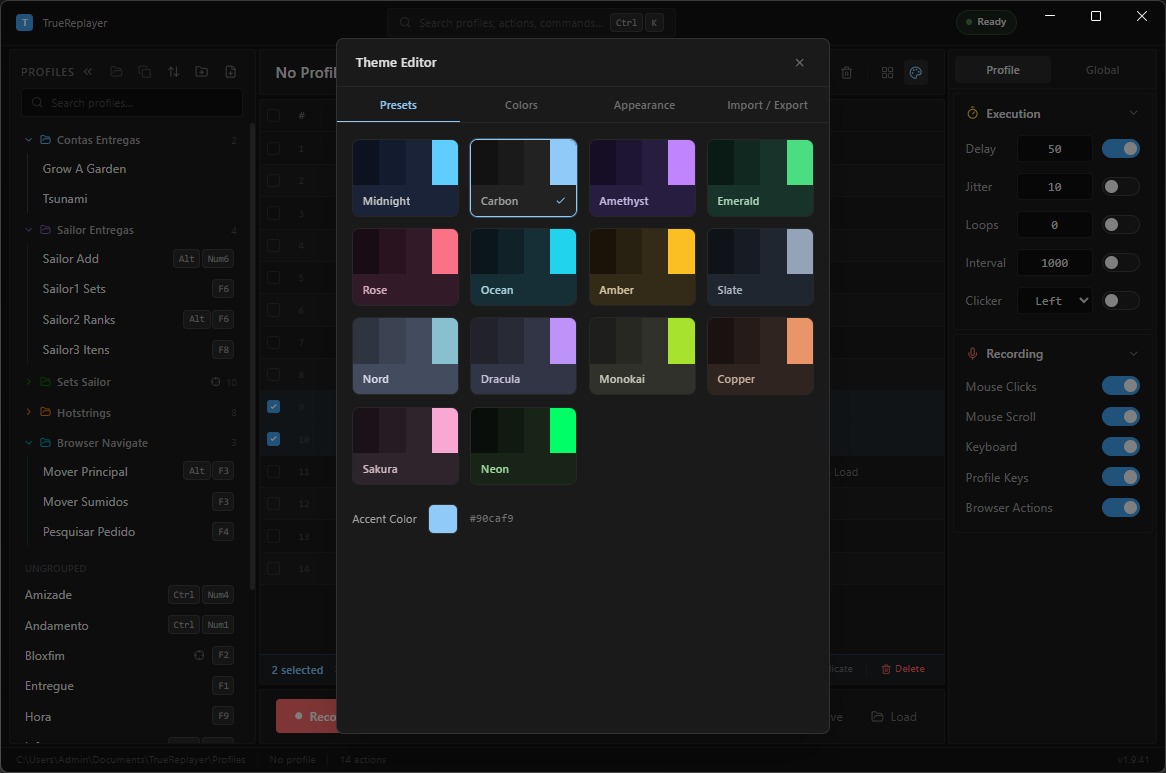
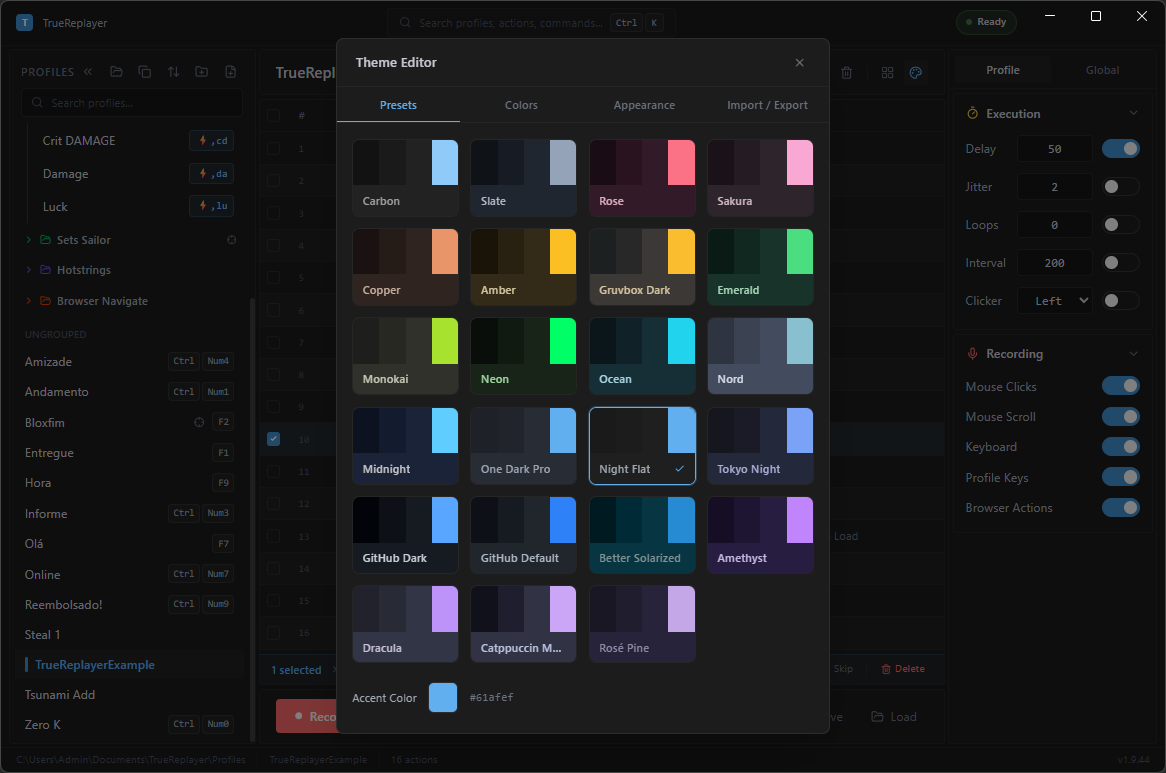
README: refresh for v1.9.45 — chaining, triggers, clipboard, 23 themes
- New screenshots (Main Window, Edit Text, Target Configuration,
  Themes) replace the old ones; Run Profile, Triggers and Clipboard
  Transform added.
- New sections: Trigger Modes, Profile Chaining, Clipboard Transform.
- Send Text section renamed to Edit Text and now mentions chained
  clipboard modifiers.
- Theme list updated to 23 presets, organized by accent hue, with
  Night Flat as the default and the new presets called out.
- Quality of Life updated: changelog-preview update flow, WebView2
  crash recovery, diagnostic logs, DevTools tray shortcut.

Both English and Portuguese (pt-BR) READMEs updated in lockstep.

diff --git a/README.pt-BR.md b/README.pt-BR.md
@@ -23,7 +23,7 @@
 </p>
 
 <p align="center">
-  <img src="Image%20App/MainWindow.png" alt="Janela principal do TrueReplayer" width="900" />
+  <img src="Image%20App/Main%20Window.png" alt="Janela principal do TrueReplayer" width="900" />
 </p>
 
 ---
@@ -48,10 +48,12 @@
 
 - 🎯 **Replay preciso** com suporte a Raw Input — funciona em jogos como Roblox
 - 🪟 **Ciente da janela** — trava tamanho, posição e foco numa janela alvo antes do replay
+- 🔗 **Profile chaining** — chama outros profiles inline com cycle detection e repeat count
+- ⚡ **Trigger Modes** — OnPress, OnRelease, WhilePressed, Toggle para o comportamento da hotkey
 - 🌐 **Automação de navegador** — clica, digita e navega usando seletores CSS (extensão Chrome)
 - ⌨ **Hotkeys e hotstrings** para disparar qualquer profile de qualquer lugar
 - 📁 **Profiles e pastas** com target de janela herdado
-- 🎨 **UI Fluent escura** com 14 temas pré-definidos e cores totalmente customizáveis
+- 🎨 **UI Fluent escura** com 23 temas pré-definidos e cores totalmente customizáveis
 
 ---
 
@@ -83,14 +85,14 @@
 Amarra um profile a uma janela específica para um replay confiável e independente de estado.
 
 <p align="center">
-  <img src="Image%20App/TargetConfig.png" alt="Dialog de Target Configuration" width="780" />
+  <img src="Image%20App/Target%20Configuration.png" alt="Dialog de Target Configuration" width="780" />
 </p>
 
 - **Click-to-detect** — clique em qualquer janela para capturar processo e título
 - **Modos de match** — `Contains` ou regex no título da janela
 - **Relative Coordinates** — grava cliques relativos à janela, replay funciona mesmo se ela mudar de posição
 - **Lock Size** — salva largura/altura na gravação e restaura antes do replay
-- **Lock Position** — salva X/Y e restaura junto com o tamanho *(novo na 1.9.41)*
+- **Lock Position** — salva X/Y e restaura junto com o tamanho
 - **Bring to Focus** — traz a janela alvo para frente antes do replay, preservando estado maximizado/fullscreen
 - **Update Window Size & Position** — recaptura a geometria sem precisar regravar
 - **Convert Coordinates** — converte em lote entre coordenadas absolutas e relativas à janela
@@ -102,22 +104,79 @@ Amarra um profile a uma janela específica para um replay confiável e independe
 - **Configuração herdada** — pastas podem definir target, relative coords e bring-to-focus — todos os profiles dentro herdam automaticamente
 - **Hotkeys** — atalho de teclado para disparar um profile instantaneamente
 - **Hotstrings** — digite uma sequência (ex: `/oi`) para executar um profile (modo instantâneo ou com terminador)
+- **Trigger Modes** — escolhe como a hotkey se comporta (veja abaixo)
 - **Import / Export** — compartilhe profiles como arquivos `.trprofile`, preservando organização em pastas e imagens
 - **Busca** — filtra profiles pelo nome em tempo real
 - **Proteção contra perda** — avisa antes de trocar ou fechar com alterações não salvas
 
-## Send Text
+## Trigger Modes
 
-Insere blocos de texto como se digitasse, com conteúdo dinâmico.
+Cada profile escolhe como a hotkey dispara o macro.
 
 <p align="center">
-  <img src="Image%20App/SendText.png" alt="Dialog de Send Text" width="780" />
+  <img src="Image%20App/Triggers.png" alt="Trigger Modes" width="780" />
+</p>
+
+| Modo | Comportamento |
+|---|---|
+| **On Press** | Dispara uma vez quando a hotkey é pressionada (padrão) |
+| **On Release** | Dispara uma vez quando a hotkey é solta — o down event é absorvido |
+| **While Pressed** | Segura a hotkey para repetir o replay em loop infinito; soltar cancela |
+| **Toggle** | Primeiro toque inicia o replay, segundo toque para |
+
+- Hotkeys combinadas (ex: `Alt+Q`) funcionam em todos os modos
+- A ordem de soltar os modificadores não importa para `On Release` (`Alt↓ Q↓ Q↑ Alt↑` e `Alt↓ Q↓ Alt↑ Q↑` ambos disparam)
+- Proteção contra auto-repeat impede que o repeat do teclado do SO dispare múltiplos `On Press`
+
+## Profile Chaining
+
+Reuso de profiles como blocos de construção. A nova ação **Run Profile** invoca outro profile inline em qualquer ponto do macro.
+
+<p align="center">
+  <img src="Image%20App/Run%20Profile.png" alt="Dialog de Run Profile" width="780" />
+</p>
+
+- **Repeat count** — chama o sub-profile de 1 a 999 vezes seguidas por ação
+- **Cycle detection** — `A → B → A` é bloqueado em runtime com entrada no log diagnóstico
+- **Profundidade máxima** de 5 evita recursão profunda acidental
+- **Contexto auto-contido** — sub-profile usa seu próprio window target, lock position e relative-coordinates se tiver; senão herda do caller
+- **Restore do caller** — após o sub-profile retornar, a janela do caller é re-focada para o resto do macro pai rodar no target certo
+- **Cancelamento propagado** — Stop encerra a cadeia inteira instantaneamente
+- **Status ao vivo** — barra de status mostra `Running A → B → C` enquanto sub-profile executa
+
+## Edit Text
+
+Insere blocos de texto como se digitasse, com conteúdo dinâmico e um transformador visual de clipboard.
+
+<p align="center">
+  <img src="Image%20App/Edit%20Text.png" alt="Dialog de Edit Text" width="780" />
 </p>
 
 - **Seletor de emoji** — busca e insere qualquer emoji
 - **Variáveis dinâmicas** — `{clipboard}`, `{date}`, `{time}`, `{datetime}`
-- **Teclas especiais** — `{enter}`, `{tab}`, `{backspace}`
+- **Teclas especiais** — `{enter}`, `{tab}`, `{backspace}`, setas de navegação, sufixo de repetição `:N`
 - **Snippets** — salva e reaproveita blocos de texto frequentes
+- **Syntax highlighting** — reconhecimento de tokens para variáveis conhecidas, incluindo modificadores de clipboard encadeados
+
+### Clipboard Transform
+
+Construa tokens complexos de clipboard visualmente — sem precisar memorizar sintaxe.
+
+<p align="center">
+  <img src="Image%20App/Clipboard.png" alt="Popover de Clipboard Transform" width="420" />
+</p>
+
+| Modificador | O que faz |
+|---|---|
+| **Trim** | Remove espaços nas pontas |
+| **UPPERCASE / lowercase** | Força o case |
+| **Line #** | Extrai uma linha específica (1-indexada) |
+| **Word #** | Extrai uma palavra específica |
+| **First N / Last N chars** | Pega N caracteres do início ou do fim |
+
+- Modificadores são encadeados em ordem (`{clipboard:trim:line:1:first:8}` etc.)
+- Preview ao vivo mostra o conteúdo real do clipboard com todos os transforms aplicados
+- Tokens ficam destacados no editor e sobrevivem a Edit / Save sem alteração
 
 ## Automação de Navegador
 
@@ -139,16 +198,24 @@ Controla navegadores baseados em Chrome com a extensão do TrueReplayer. Usa sel
 
 ## Aparência
 
-Personalize a interface com 14 temas ou cores totalmente customizadas.
+Personalize a interface com 23 temas ou cores totalmente customizadas.
 
 <p align="center">
   <img src="Image%20App/Themes.png" alt="Theme Editor" width="780" />
 </p>
 
-- **Temas** — Midnight, Carbon, Amethyst, Emerald, Rose, Ocean, Amber, Slate, Nord, Dracula, Monokai, Copper, Sakura, Neon
-- **Cores customizadas** — accent, semânticas (vermelho de gravação, verde de replay), cores das pills por tipo de ação
+- **Temas organizados por matiz do accent:**
+  - *Neutro* — Carbon, Slate
+  - *Pink/Rose* — Rose, Sakura
+  - *Laranja/Amarelo* — Copper, Amber, Gruvbox Dark
+  - *Verde* — Emerald, Monokai, Neon
+  - *Cyan/Azul* — Ocean, Nord, Midnight, One Dark Pro, Night Flat *(padrão)*, Tokyo Night, GitHub Dark, GitHub Default, Better Solarized
+  - *Roxo/Violeta/Mauve* — Amethyst, Dracula, Catppuccin Mocha, Rosé Pine
+- **Cores customizadas** — accent, semânticas (vermelho de gravação, verde de replay), cada pill por tipo de ação (mouse, key, scroll, send-text, wait-image, browser, run-profile)
 - **Fonte monoespaçada** — Consolas, Cascadia Mono, Cascadia Code, Courier New, Lucida Console
+- **Layout** — tamanho de fonte, raio das bordas, altura da linha, zoom
 - **Import / Export** de temas como JSON
+- **Preview ao vivo** — toda mudança é aplicada instantaneamente em toda a UI
 
 ## Command Palette
 
@@ -166,9 +233,12 @@ Pressione `Ctrl+K` para busca fuzzy em comandos, profiles e configurações — 
 
 ## Qualidade de Vida
 
-- **Auto-update** — verifica e instala em background ao abrir *(builds com instalador)*
+- **Auto-update** com preview do changelog — você vê o que mudou antes de baixar; nada instala sem confirmação
+- **Recuperação de crash do WebView2** — estratégia escalonada (Reload → Navigate → Restart) mantém a UI viva mesmo em falhas raras do WebView2
+- **Logs diagnósticos** — sessão registrada em arquivo em `%LOCALAPPDATA%\TrueReplayer\Logs\` com rotação; acesso rápido pelo menu da bandeja
+- **Atalho DevTools** — abre DevTools do WebView2 pela bandeja para inspeção
 - **Multi-monitor** — coordenadas funcionam em qualquer display
-- **System tray** — minimiza pra bandeja; hotkey **Bring to Foreground** restaura da bandeja *(novo na 1.9.41)*
+- **System tray** — minimiza pra bandeja; hotkey **Bring to Foreground** restaura da bandeja
 - **Auto-recovery** — se a UI travar, o app se recarrega em até 5 segundos
 - **Escape fecha menus** — menus de contexto e dropdowns fecham com `Esc`
 - **Notificações toast** — mensagens de sucesso / erro / info empilháveis

diff --git a/README.md b/README.md
@@ -23,7 +23,7 @@
 </p>
 
 <p align="center">
-  <img src="Image%20App/MainWindow.png" alt="TrueReplayer main window" width="900" />
+  <img src="Image%20App/Main%20Window.png" alt="TrueReplayer main window" width="900" />
 </p>
 
 ---
@@ -48,10 +48,12 @@
 
 - 🎯 **Precise replay** with Raw Input support — works with games like Roblox
 - 🪟 **Window-aware** — lock size, position, and auto-focus a target window before replay
+- 🔗 **Profile chaining** — call other profiles inline with cycle detection and repeat count
+- ⚡ **Trigger Modes** — OnPress, OnRelease, WhilePressed, Toggle for hotkey behavior
 - 🌐 **Browser automation** — click, type, and navigate with CSS selectors (Chrome extension)
 - ⌨ **Hotkeys & hotstrings** to trigger any profile from anywhere
 - 📁 **Profiles & folders** with inherited window targets
-- 🎨 **Fluent dark UI** with 14 theme presets and full custom colors
+- 🎨 **Fluent dark UI** with 23 theme presets and full custom colors
 
 ---
 
@@ -83,14 +85,14 @@
 Lock a profile to a specific application window for reliable, stateless replay.
 
 <p align="center">
-  <img src="Image%20App/TargetConfig.png" alt="Target Configuration dialog" width="780" />
+  <img src="Image%20App/Target%20Configuration.png" alt="Target Configuration dialog" width="780" />
 </p>
 
 - **Click-to-detect** — click any window to capture its process and title
 - **Match modes** — `Contains` or regex against the window title
 - **Relative Coordinates** — record clicks relative to the window, so it replays correctly even if the window moves
 - **Lock Size** — saves the window's width/height on recording and restores them before replay
-- **Lock Position** — saves the window's X/Y and restores it alongside the size *(new in 1.9.41)*
+- **Lock Position** — saves the window's X/Y and restores it alongside the size
 - **Bring to Focus** — auto-focus the target window before replaying, preserving maximized/fullscreen state
 - **Update Window Size & Position** — recapture geometry without re-recording
 - **Convert Coordinates** — bulk-convert actions between absolute and window-relative
@@ -102,22 +104,79 @@ Lock a profile to a specific application window for reliable, stateless replay.
 - **Inherited settings** — folders can define the window target, relative coords, and bring-to-focus — all profiles inside inherit automatically
 - **Hotkeys** — assign a keyboard shortcut to instantly trigger a profile
 - **Hotstrings** — type a sequence (e.g. `/hello`) to auto-fire a profile (instant or terminator mode)
+- **Trigger Modes** — choose how the hotkey behaves (see below)
 - **Import / Export** — share profiles as `.trprofile` files, with folder organization and images preserved
 - **Search** — filter profiles by name instantly
 - **Unsaved changes guard** — prompts before switching or closing
 
-## Send Text
+## Trigger Modes
 
-Insert blocks of text as typed keystrokes with dynamic content.
+Each profile chooses how its hotkey actually fires the macro.
 
 <p align="center">
-  <img src="Image%20App/SendText.png" alt="Send Text dialog" width="780" />
+  <img src="Image%20App/Triggers.png" alt="Trigger Modes" width="780" />
+</p>
+
+| Mode | Behavior |
+|---|---|
+| **On Press** | Fires once when the hotkey is pressed (default) |
+| **On Release** | Fires once when the hotkey is released — the down event is swallowed |
+| **While Pressed** | Holds the hotkey to keep replaying in an infinite loop; releasing cancels |
+| **Toggle** | First press starts the replay, second press stops it |
+
+- Combined hotkeys (e.g. `Alt+Q`) are supported in every mode
+- Modifier release order doesn't matter for `On Release` (`Alt↓ Q↓ Q↑ Alt↑` and `Alt↓ Q↓ Alt↑ Q↑` both fire correctly)
+- Auto-repeat protection prevents the OS keyboard repeat from spamming `On Press` triggers
+
+## Profile Chaining
+
+Reuse profiles as building blocks. The new **Run Profile** action invokes another profile inline at any point in the macro.
+
+<p align="center">
+  <img src="Image%20App/Run%20Profile.png" alt="Run Profile dialog" width="780" />
+</p>
+
+- **Repeat count** — call the sub-profile 1–999 times back-to-back per action
+- **Cycle detection** — `A → B → A` is blocked at runtime with a diagnostic log entry
+- **Max depth** of 5 prevents accidental deep recursion
+- **Auto-contained context** — sub-profile uses its own window target, lock position, and relative-coordinate metadata if set; otherwise inherits from the caller
+- **Caller restore** — after the sub-profile returns, the caller's window is re-focused so the rest of the parent macro runs against the right target
+- **Cancel propagation** — Stop ends the entire chain instantly
+- **Live status** — the status bar shows `Running A → B → C` while a sub-profile executes
+
+## Edit Text
+
+Insert blocks of text as typed keystrokes with dynamic content and a visual clipboard transformer.
+
+<p align="center">
+  <img src="Image%20App/Edit%20Text.png" alt="Edit Text dialog" width="780" />
 </p>
 
 - **Emoji picker** — search and insert any emoji
 - **Dynamic variables** — `{clipboard}`, `{date}`, `{time}`, `{datetime}`
-- **Special keys** — `{enter}`, `{tab}`, `{backspace}`
+- **Special keys** — `{enter}`, `{tab}`, `{backspace}`, navigation arrows, repeat suffix `:N`
 - **Snippets** — save and reuse frequent text blocks
+- **Syntax highlighting** — token recognition for known variables, including chained clipboard modifiers
+
+### Clipboard Transform
+
+Build complex clipboard tokens visually — no syntax to memorize.
+
+<p align="center">
+  <img src="Image%20App/Clipboard.png" alt="Clipboard Transform popover" width="420" />
+</p>
+
+| Modifier | What it does |
+|---|---|
+| **Trim** | Strip leading/trailing whitespace |
+| **UPPERCASE / lowercase** | Force case |
+| **Line #** | Extract a specific line (1-indexed) |
+| **Word #** | Extract a specific word |
+| **First N / Last N chars** | Slice from the start or the end |
+
+- Modifiers are chained in order (`{clipboard:trim:line:1:first:8}` etc.)
+- Live preview shows the actual clipboard content with all transforms applied
+- Tokens are highlighted in the editor and round-trip through Edit / Save unchanged
 
 ## Browser Automation
 
@@ -139,16 +198,24 @@ Drive Chrome-based browsers with the TrueReplayer extension. Uses CSS selectors 
 
 ## Appearance
 
-Personalize the interface with 14 presets or fully custom colors.
+Personalize the interface with 23 presets or fully custom colors.
 
 <p align="center">
   <img src="Image%20App/Themes.png" alt="Theme Editor" width="780" />
 </p>
 
-- **Presets** — Midnight, Carbon, Amethyst, Emerald, Rose, Ocean, Amber, Slate, Nord, Dracula, Monokai, Copper, Sakura, Neon
-- **Custom colors** — accent, semantic (recording red, replay green), action-type pill colors
+- **Theme presets organized by accent hue:**
+  - *Neutral* — Carbon, Slate
+  - *Pink/Rose* — Rose, Sakura
+  - *Orange/Yellow* — Copper, Amber, Gruvbox Dark
+  - *Green* — Emerald, Monokai, Neon
+  - *Cyan/Blue* — Ocean, Nord, Midnight, One Dark Pro, Night Flat *(default)*, Tokyo Night, GitHub Dark, GitHub Default, Better Solarized
+  - *Purple/Violet/Mauve* — Amethyst, Dracula, Catppuccin Mocha, Rosé Pine
+- **Custom colors** — accent, semantic (recording red, replay green), every action-type pill (mouse, key, scroll, send-text, wait-image, browser, run-profile)
 - **Mono font** — Consolas, Cascadia Mono, Cascadia Code, Courier New, Lucida Console
+- **Layout** — font size, border radius, row height, zoom
 - **Import / Export** themes as JSON
+- **Live preview** — every change applies instantly across the whole UI
 
 ## Command Palette
 
@@ -166,9 +233,12 @@ Press `Ctrl+K` for fuzzy search across commands, profiles, and settings — ever
 
 ## Quality of Life
 
-- **Auto-updates** — checks and installs in the background on launch *(installer builds)*
+- **Auto-updates** with changelog preview — see what's new before downloading; nothing installs without your confirmation
+- **WebView2 crash recovery** — escalating recovery strategy (Reload → Navigate → Restart) keeps the UI alive even on rare WebView2 failures
+- **Diagnostic logs** — file-based session logs in `%LOCALAPPDATA%\TrueReplayer\Logs\` with rotation; quick access via tray menu
+- **DevTools shortcut** — open WebView2 DevTools from the tray for inspection
 - **Multi-monitor** — coordinates work across all displays
-- **System tray** — minimize to tray; global **Bring to Foreground** hotkey restores from tray *(new in 1.9.41)*
+- **System tray** — minimize to tray; global **Bring to Foreground** hotkey restores from tray
 - **Auto-recovery** — if the UI crashes, the app reloads itself within 5 seconds
 - **Escape closes menus** — context menus and dropdowns dismiss with `Esc`
 - **Toast notifications** — stacked success / error / info messages
